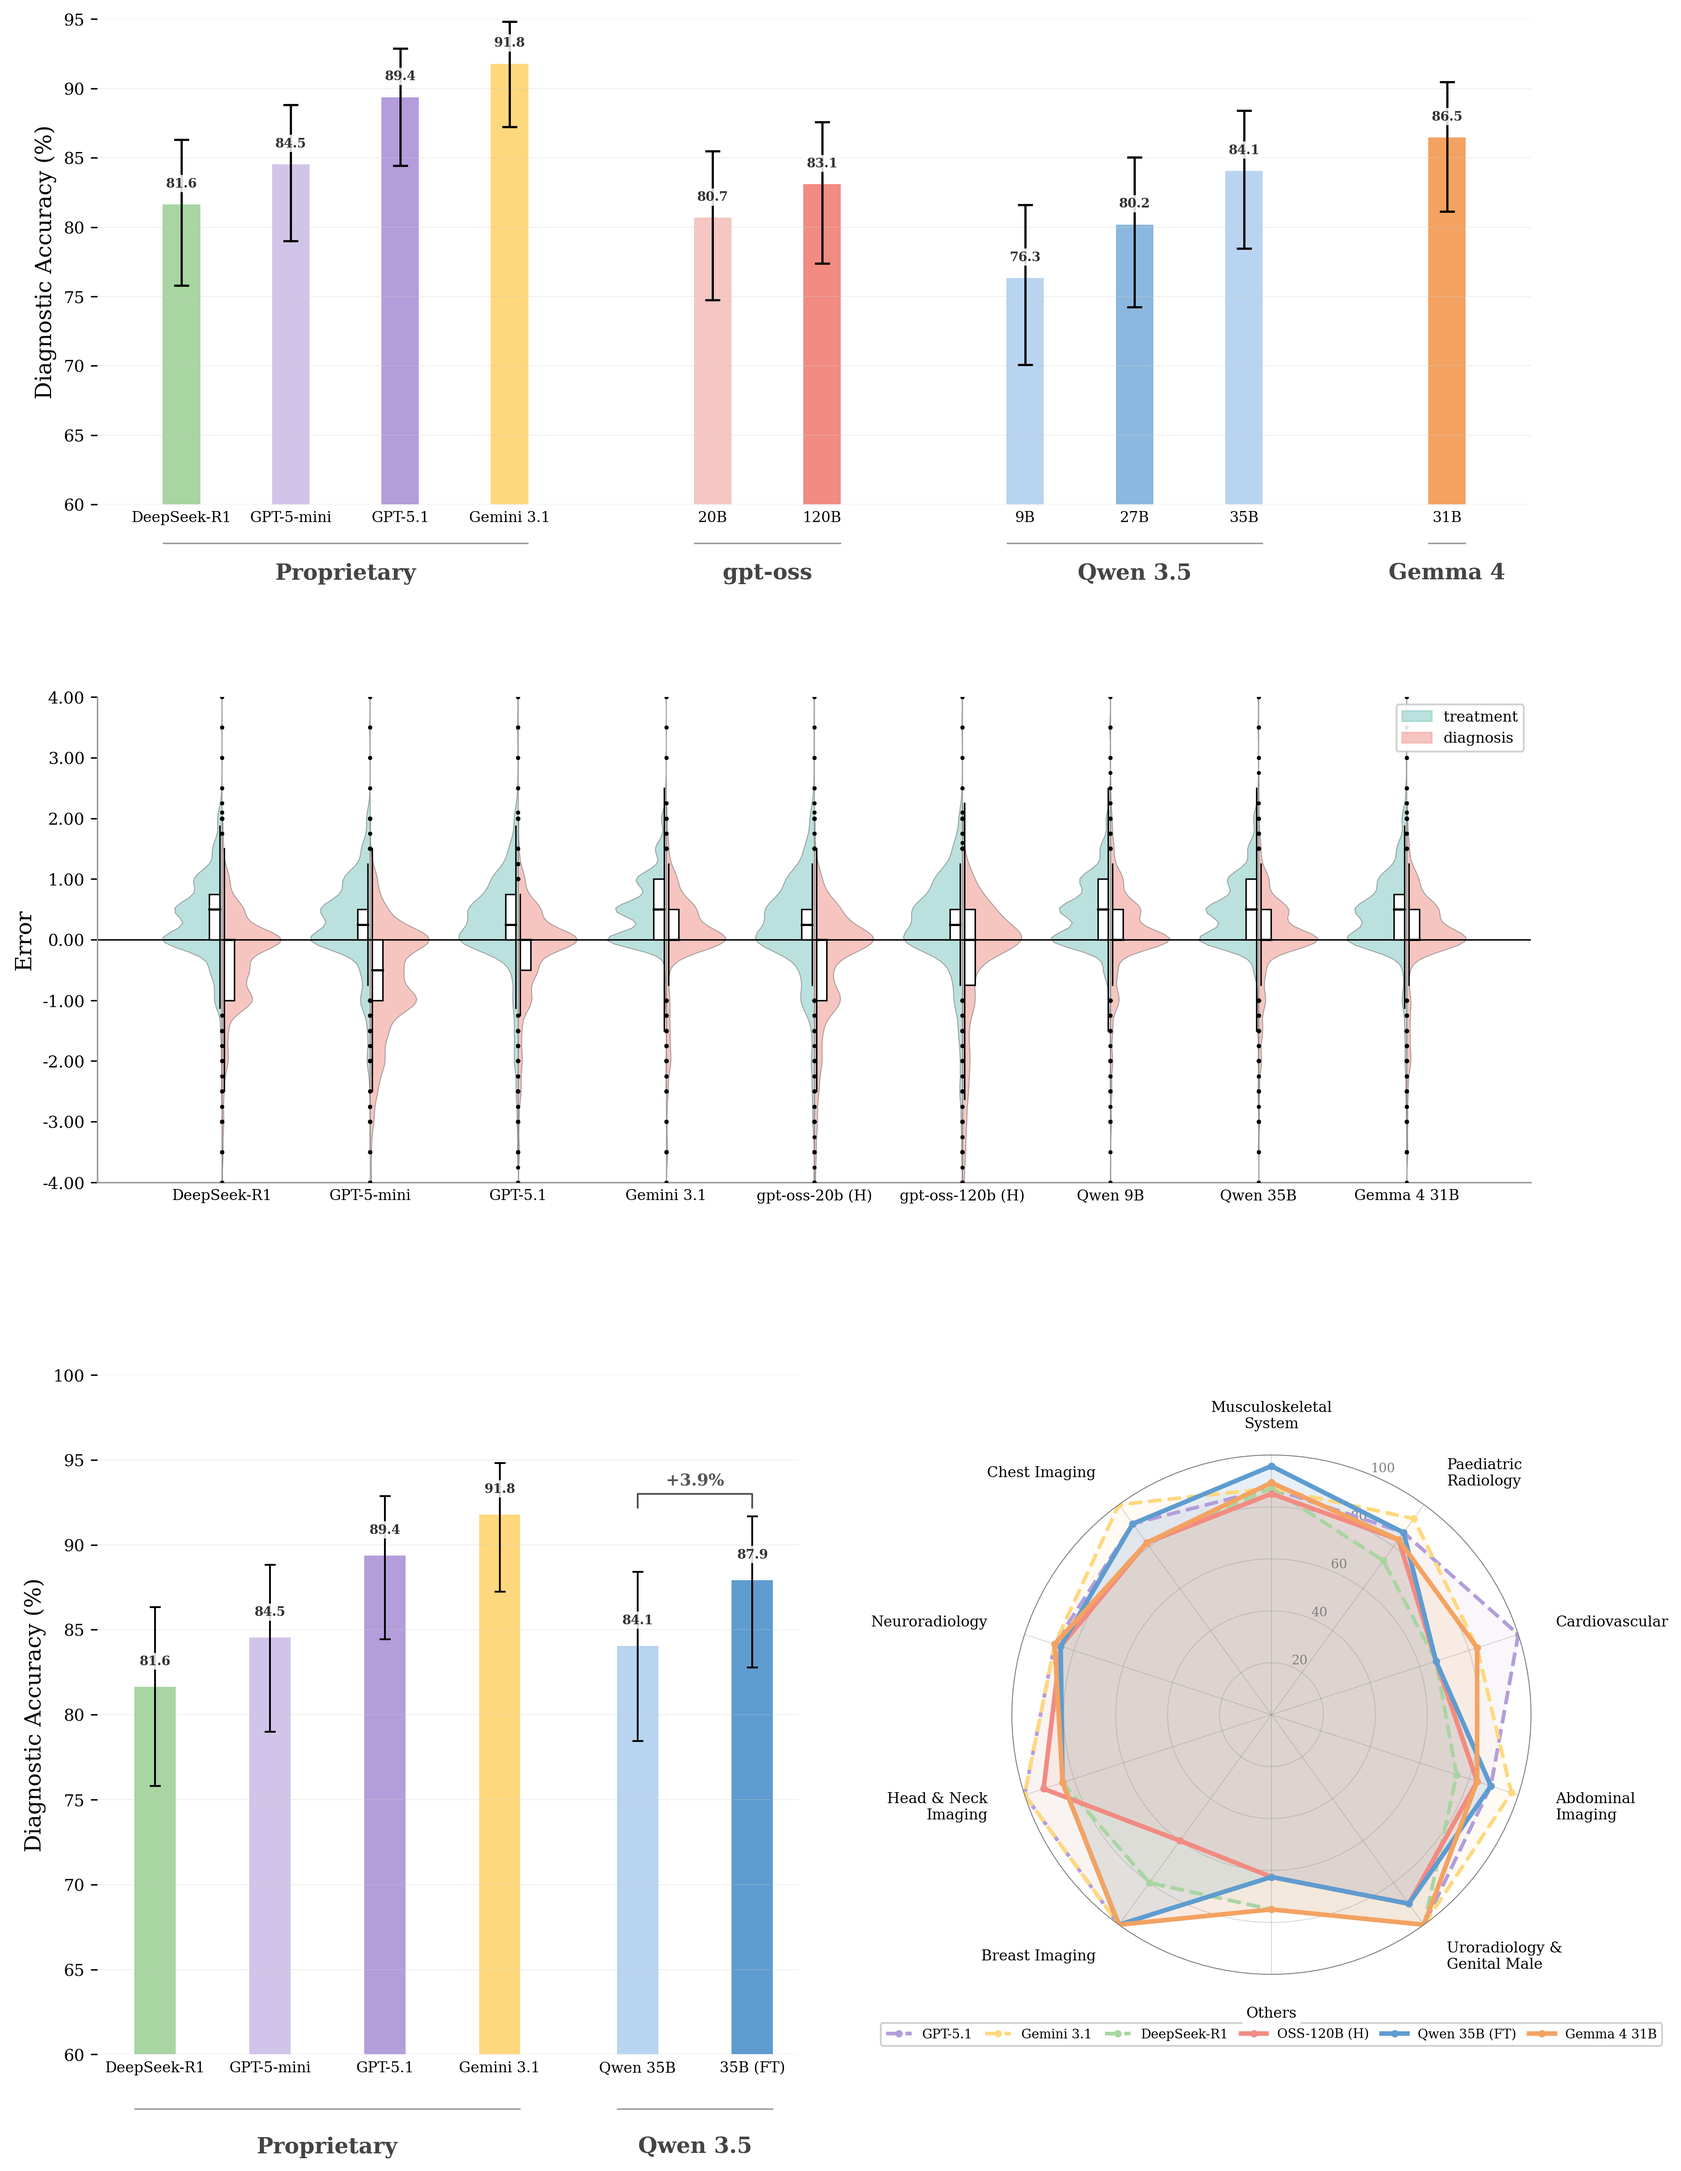
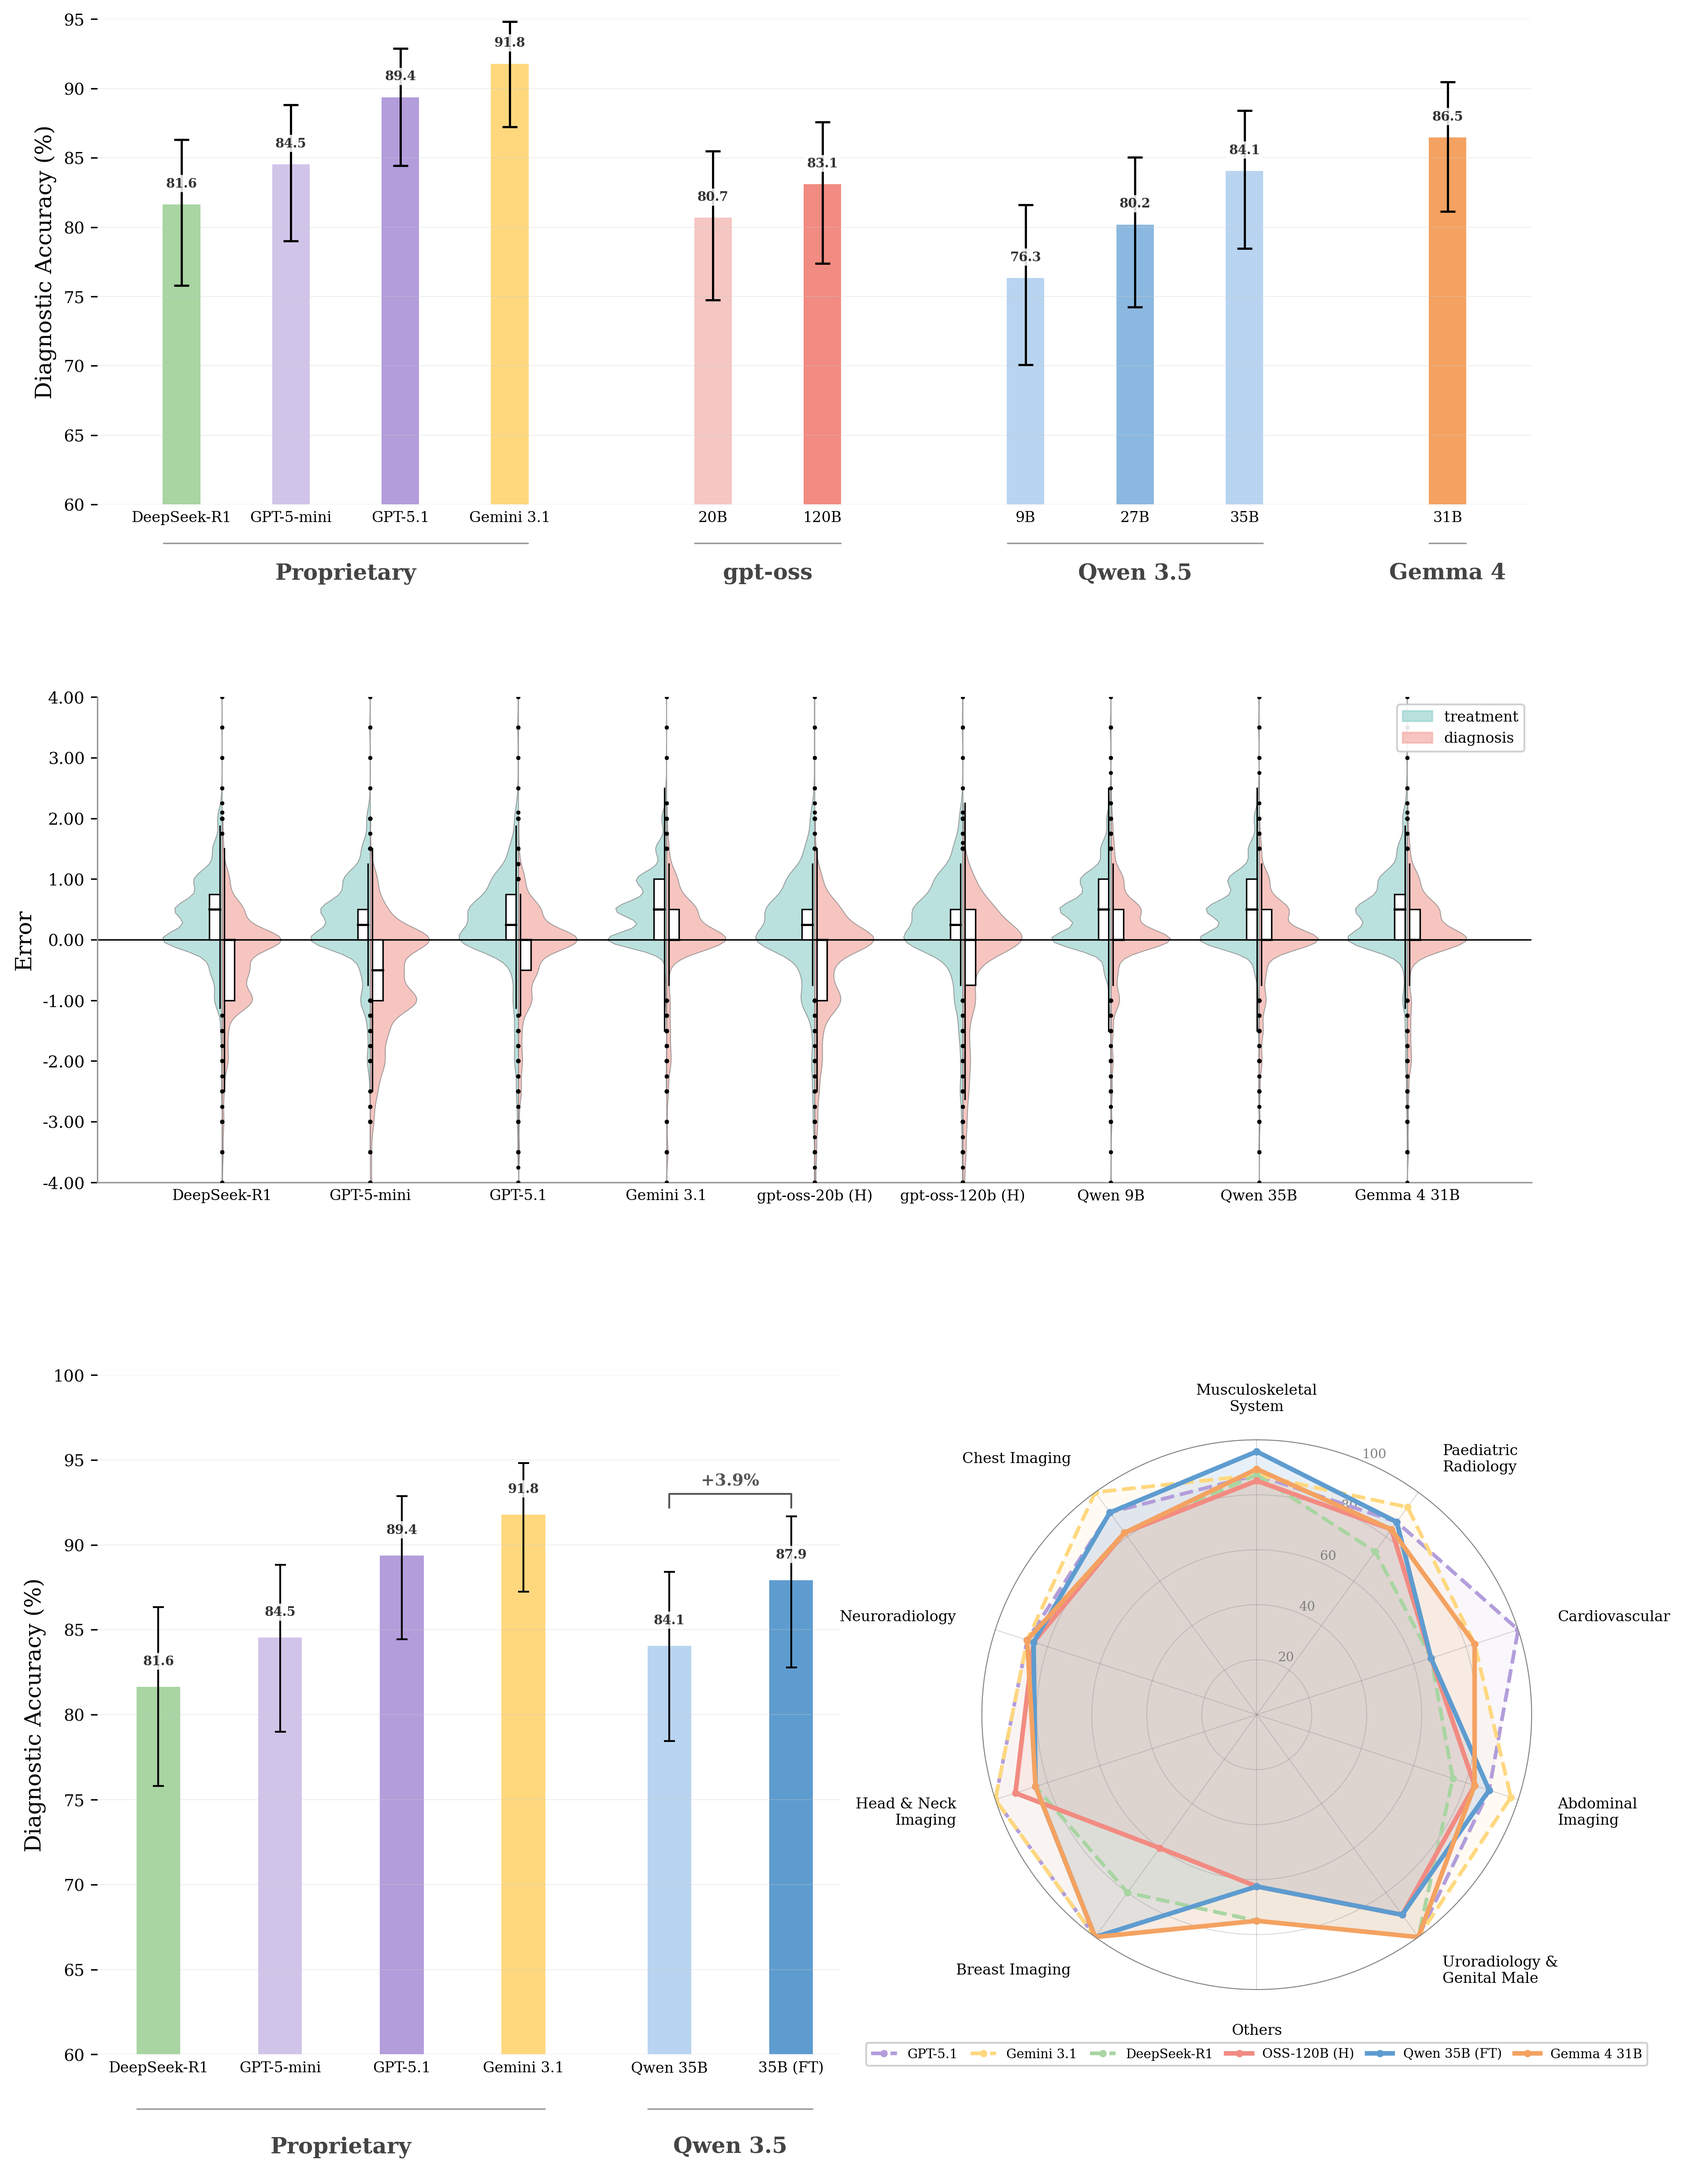
Reduce Fig 2 wspace to pull radar plot closer to panel c
Drops GridSpec wspace from 0.35 to 0.22 so the radar plot sits
closer to the fine-tune bar plot while keeping radar category
labels clear of panel c's axes.

diff --git a/figures/combined_figure.py b/figures/combined_figure.py
@@ -354,7 +354,7 @@ def main():
     gs = gridspec.GridSpec(3, 2, figure=fig,
                            height_ratios=[1, 1, 1.4],
                            width_ratios=[1.35, 1.0],
-                           hspace=0.35, wspace=0.35)
+                           hspace=0.35, wspace=0.22)
 
     # Panel a — full width
     ax_a = fig.add_subplot(gs[0, :])
